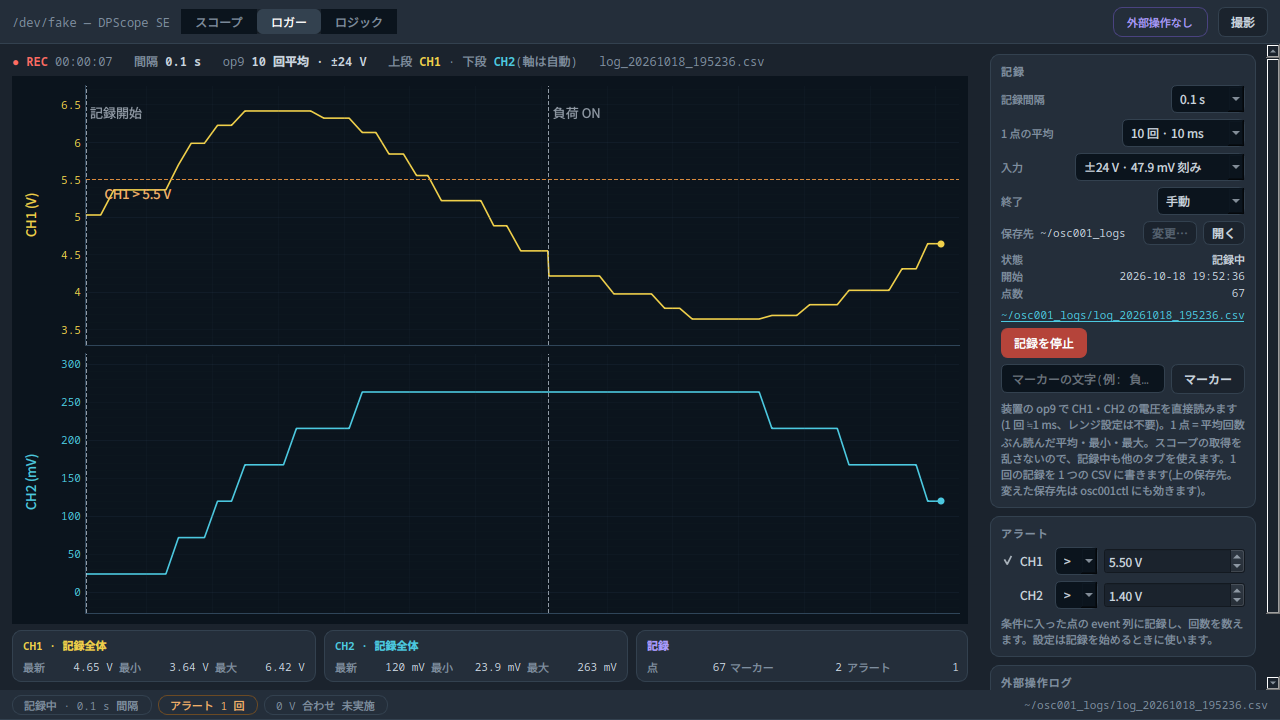
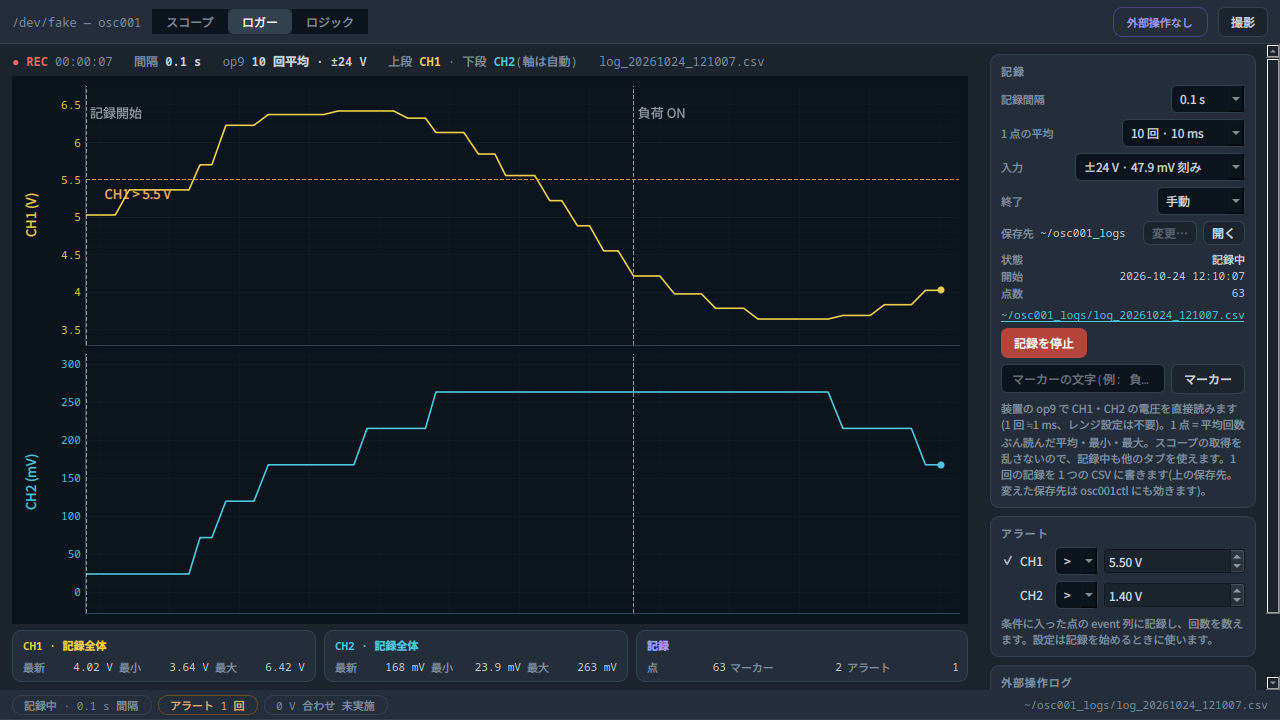
Show device as osc001

diff --git a/src/osc001_viewer/core/logger.py b/src/osc001_viewer/core/logger.py
@@ -117,7 +117,7 @@ class Logger(object):
         zero = st["zero"]
         head = ["# osc001 log v1",
                 "# start: %s" % t0.isoformat(timespec="seconds"),
-                "# device: DPScope SE (%s, USB %s)" % (st["path"], st["port"]),
+                "# device: osc001 (%s, USB %s)" % (st["path"], st["port"]),
                 "# source: op9 %s (%.3g mV/count), interval %g s, average %d"
                 % ("±24 V" if tap == 8 else "−1.9〜+3.1 V", osc001.VCOUNT[tap] * 1e3, interval, avg),
                 "# probe: ch1 ×%g / ch2 ×%g(電圧はプローブ倍率を掛けた値)" % (self.device.axis[1].probe,

diff --git a/src/osc001_viewer/ui/main_window.py b/src/osc001_viewer/ui/main_window.py
@@ -816,7 +816,7 @@ class MainWindow(QMainWindow):
         if not st:
             return
         tb = st["timebase"]
-        self.dev_label.setText("%s — DPScope SE" % (st["path"] or "未接続"))
+        self.dev_label.setText("%s — osc001" % (st["path"] or "未接続"))
         self.t_step.set_text(fmt_t(tb["tdiv"]))
         self.kv_h.set("実効 fs", fmt_hz(tb["fs"]))
         acq = tb["acq_time"]

diff --git a/src/osc001_viewer/__init__.py b/src/osc001_viewer/__init__.py
@@ -1,4 +1,4 @@
-"""osc001_viewer — osc001(DPScope SE)のビューアと外部操作口。
+"""osc001_viewer — osc001 のビューアと外部操作口。
 
 core/ は Qt に依存しない(GUI と画面なしのサーバ osc001d の両方から使う)。
 """
